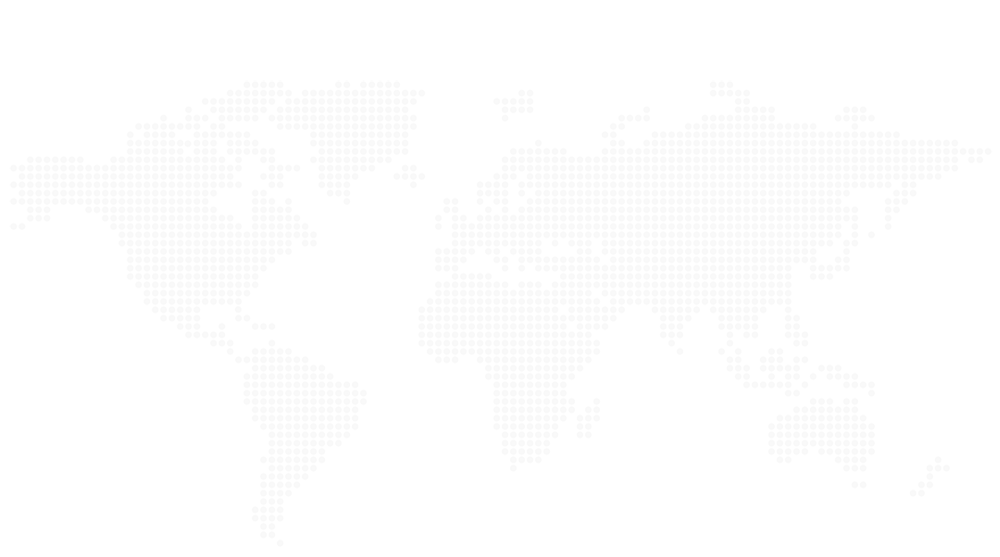
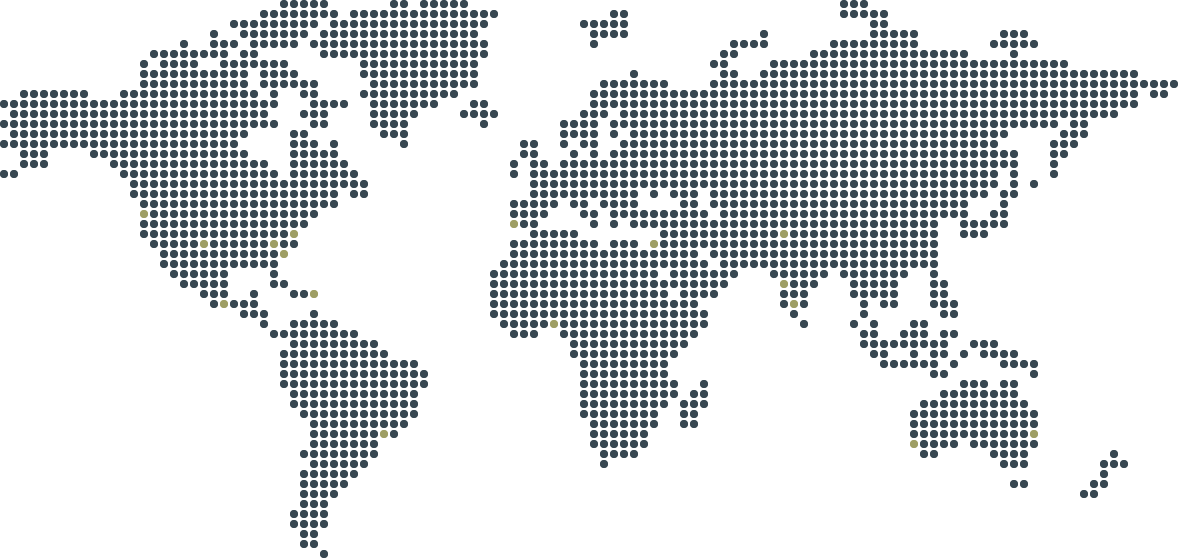
Adds the dotmap svg and png to the showcase section on the homepage.

diff --git a/static/js/dotmap.js b/static/js/dotmap.js
@@ -1,0 +1,128 @@
+var maptrix = [
+	[0,0,0,0,0,0,0,0,0,0,0,0,0,0,0,0,0,0,0,0,0,0,0,0,0,0,0,0,1,1,1,1,1,0,0,0,0,0,0,1,1,0,1,1,1,1,1,0,0,0,0,0,0,0,0,0,0,0,0,0,0,0,0,0,0,0,0,0,0,0,0,0,0,0,0,0,0,0,0,0,0,0,0,0,1,1,1],
+	[0,0,0,0,0,0,0,0,0,0,0,0,0,0,0,0,0,0,0,0,0,0,0,0,0,0,1,1,1,1,1,1,1,1,0,1,1,1,1,1,1,1,1,1,1,1,1,1,1,1,0,0,0,0,0,0,0,0,0,0,0,1,1,0,0,0,0,0,0,0,0,0,0,0,0,0,0,0,0,0,0,0,0,0,1,1,1,1,1],
+	[0,0,0,0,0,0,0,0,0,0,0,0,0,0,0,0,0,0,0,0,0,0,0,1,1,1,1,1,1,1,1,1,0,1,1,1,1,1,1,1,1,1,1,1,1,1,1,1,1,0,0,0,0,0,0,0,0,0,1,1,1,1,1,0,0,0,0,0,0,0,0,0,0,0,0,0,0,0,0,0,0,0,0,0,0,0,0,1,1],
+	[0,0,0,0,0,0,0,0,0,0,0,0,0,0,0,0,0,0,0,0,0,1,0,0,1,1,1,1,1,1,1,0,1,1,1,1,1,1,1,1,1,1,1,1,1,1,1,1,0,0,0,0,0,0,0,0,0,0,0,1,1,1,1,0,0,0,0,0,0,0,0,0,0,0,0,0,1,0,0,0,0,0,0,0,0,0,0,1,1,1,1,1,0,0,0,0,0,0,0,0,1,1,1,],
+	[0,0,0,0,0,0,0,0,0,0,0,0,0,0,0,0,0,0,1,0,0,1,1,1,0,1,1,1,1,1,0,1,1,1,1,1,1,1,1,1,1,1,1,1,1,1,1,1,1,0,0,0,0,0,0,0,0,0,0,1,0,0,0,0,0,0,0,0,0,0,0,0,0,1,1,1,1,0,0,0,0,0,0,1,1,1,1,1,1,1,1,1,0,0,0,0,0,0,0,1,1,1,1,1],
+	[0,0,0,0,0,0,0,0,0,0,0,0,0,0,0,1,1,1,1,1,1,1,1,0,1,1,0,0,0,0,0,0,1,1,1,1,1,1,1,1,1,1,1,1,1,1,1,1,1,0,0,0,0,0,0,0,0,0,0,0,0,0,0,0,0,0,0,0,0,0,0,0,1,1,0,0,0,0,0,0,0,1,1,1,1,1,1,1,1,1,1,1,1,1,1,1,1,0,0,0,0,1],
+	[0,0,0,0,0,0,0,0,0,0,0,0,0,0,1,0,1,1,1,1,0,0,1,1,1,1,1,1,1,0,0,0,0,0,0,0,1,1,1,1,1,1,1,1,1,1,1,1,0,0,0,0,0,0,0,0,0,0,0,0,0,0,0,0,0,0,0,0,0,0,0,1,1,0,0,0,0,1,1,1,1,1,1,1,1,1,1,1,1,1,1,1,1,1,1,1,1,1,1,1,1,1,1,1,1,1,1],
+	[0,0,0,0,0,0,0,0,0,0,0,0,0,0,1,1,1,1,1,1,1,1,1,1,1,0,1,1,1,1,0,0,0,0,0,0,1,1,1,1,1,1,1,1,1,1,1,1,0,0,0,0,0,0,0,0,0,0,0,0,0,0,0,1,0,0,0,0,0,0,0,0,1,1,0,0,1,1,1,1,1,1,1,1,1,1,1,1,1,1,1,1,1,1,1,1,1,1,1,1,1,1,1,1,1,1,1,1,1,1,1,1,1,1],
+	[0,0,0,0,0,0,0,0,0,0,0,0,0,0,1,1,1,1,1,1,1,1,1,1,1,0,1,1,1,1,1,1,0,0,0,0,0,1,1,1,1,1,1,1,1,1,1,1,0,0,0,0,0,0,0,0,0,0,0,0,1,1,1,1,1,1,1,0,0,0,0,1,1,1,1,1,1,1,1,1,1,1,1,1,1,1,1,1,1,1,1,1,1,1,1,1,1,1,1,1,1,1,1,1,1,1,1,1,1,1,1,1,1,1,1,1,1,1],
+	[0,0,1,1,1,1,1,1,1,0,0,0,1,1,1,1,1,1,1,1,1,1,1,1,1,1,0,1,0,0,1,1,0,0,0,0,1,1,1,1,1,1,1,1,1,1,0,0,0,0,0,0,0,0,0,0,0,0,0,1,1,1,1,1,1,1,1,1,1,1,1,1,1,1,1,1,1,1,2,1,1,1,1,1,1,1,1,1,1,1,1,1,1,1,1,1,1,1,1,1,1,1,1,1,1,1,1,1,1,1,1,1,1,1,0,1,1],
+	[1,1,1,1,1,1,1,1,1,1,1,1,1,1,1,1,1,1,1,1,1,1,1,1,1,1,1,1,0,0,0,1,1,1,1,0,0,1,1,1,1,1,1,1,0,0,0,1,1,0,0,0,0,0,0,0,0,0,0,1,1,1,1,1,1,1,1,1,1,1,1,1,1,1,1,1,1,1,1,1,1,1,1,1,1,1,1,1,1,1,1,1,1,1,1,1,1,1,1,1,1,1,1,1,1,1,1,1,1,1,1,1,1,1],
+	[0,1,1,1,1,1,1,1,1,1,1,1,1,1,1,1,1,1,1,1,1,1,1,1,1,1,1,0,0,0,1,1,1,0,0,0,0,1,1,1,1,1,0,0,0,0,1,1,1,1,0,0,0,0,0,0,0,0,1,1,1,0,1,1,1,1,1,1,1,1,1,1,1,1,1,1,1,1,1,1,1,1,1,1,1,1,1,1,1,1,1,1,1,1,1,1,1,1,1,1,1,1,1,1,1,1,1,1,1,1,1,1],
+	[1,1,1,1,1,1,1,1,1,1,1,1,1,1,1,1,1,1,1,1,1,1,1,1,1,1,1,1,0,0,0,1,1,0,0,0,0,1,1,1,1,0,0,0,0,0,0,0,1,0,0,0,0,0,0,0,1,1,1,2,0,1,1,1,1,1,1,1,1,1,1,1,1,1,1,1,1,1,1,1,1,1,1,1,1,1,1,1,1,1,1,1,1,1,1,1,1,1,1,1,1,1,1,1,1,1,0,1,1],
+	[0,1,1,1,1,1,1,1,1,1,1,1,1,1,1,1,1,1,1,1,1,1,1,1,1,0,0,0,0,1,1,0,0,0,0,0,0,0,1,1,1,0,0,0,0,0,0,0,0,0,0,0,0,0,0,0,1,1,1,1,0,1,0,1,1,1,1,1,1,2,1,1,1,1,1,1,1,1,1,1,1,1,1,1,1,1,1,1,1,1,1,1,1,1,1,1,1,1,1,1,1,0,0,0,0,0,1,1,1],
+	[1,1,1,1,1,1,1,1,1,1,1,1,1,1,1,1,1,1,1,1,1,1,1,1,0,0,0,0,0,1,1,1,0,1,0,0,0,0,0,0,1,0,0,0,0,0,0,0,0,0,0,0,1,2,0,0,1,0,1,1,0,0,1,1,1,1,1,1,1,1,1,1,1,1,1,1,1,1,1,1,1,1,1,1,1,1,1,1,1,1,1,1,1,1,1,1,1,1,1,1,0,0,0,0,0,1,1,1],
+	[0,0,1,1,1,0,0,0,0,1,1,1,1,1,1,1,1,1,1,1,1,1,1,1,1,0,0,0,0,1,1,1,1,1,0,0,0,0,0,0,0,0,0,0,0,0,0,0,0,0,0,0,1,2,0,0,0,1,0,1,0,1,1,1,1,1,1,1,1,1,1,1,1,1,1,1,1,1,1,1,1,1,1,1,1,1,1,1,1,1,1,1,1,1,1,1,1,1,1,1,1,1,0,0,0,1,1],
+	[0,0,1,1,1,0,0,0,0,0,0,1,1,1,1,1,1,1,1,1,1,1,1,1,1,1,1,0,0,1,1,1,1,1,1,0,0,0,0,0,0,0,0,0,0,0,0,0,0,0,0,2,0,1,2,0,2,2,1,1,1,1,1,1,1,1,1,1,1,1,1,1,1,1,1,1,1,1,1,1,1,1,1,1,1,1,1,1,1,1,1,1,1,1,1,1,1,1,1,1,1,1,0,0,0,1],
+	[1,1,0,0,0,0,0,0,0,0,0,0,1,1,1,1,1,1,1,1,1,1,1,1,1,1,1,1,0,1,1,1,1,1,1,1,0,0,0,0,0,0,0,0,0,0,0,0,0,0,0,1,0,2,2,1,2,1,1,1,1,1,1,1,1,1,1,1,1,1,1,1,1,1,1,1,1,1,1,1,1,1,1,1,1,1,1,1,1,1,1,1,1,1,1,1,1,1,1,1,0,1,0,0,0,1],
+	[0,0,0,0,0,0,0,0,0,0,0,0,0,1,1,1,1,1,1,1,1,1,1,1,1,1,1,1,1,1,1,1,1,1,1,1,1,0,0,0,0,0,0,0,0,0,0,0,0,0,0,0,0,1,1,1,1,1,1,1,1,1,1,1,1,1,1,1,1,1,1,1,1,1,1,1,1,1,1,1,1,1,1,1,1,1,1,1,1,1,1,1,1,1,1,1,1,1,1,1,0,2,0,1],
+	[0,0,0,0,0,0,0,0,0,0,0,0,0,1,1,1,1,1,2,1,1,1,1,1,1,1,1,1,1,1,1,1,1,1,0,1,1,0,0,0,0,0,0,0,0,0,0,0,0,0,0,0,0,1,1,1,1,1,1,1,1,1,1,1,0,1,0,1,1,1,0,1,1,1,1,1,1,1,1,1,1,1,1,1,1,1,1,1,1,1,1,1,1,1,1,1,1,1,1,0,1,1],
+	[0,0,0,0,0,0,0,0,0,0,0,0,0,0,2,1,1,1,1,1,1,1,1,1,1,1,1,2,1,1,1,1,2,1,0,0,0,0,0,0,0,0,0,0,0,0,0,0,0,0,0,2,1,1,1,1,0,1,2,0,1,1,1,1,0,0,0,0,2,1,0,1,1,1,1,1,1,1,2,1,1,1,1,1,1,1,1,1,1,1,1,1,1,1,1,1,1,0,0,0,2],
+	[0,0,0,0,0,0,0,0,0,0,0,0,0,0,2,1,1,1,1,1,1,1,1,1,2,1,1,1,1,1,1,2,0,0,0,0,0,0,0,0,0,0,0,0,0,0,0,0,0,0,0,2,1,2,1,0,0,0,1,2,0,1,1,1,1,1,1,1,1,1,1,0,1,1,1,1,1,1,1,1,1,1,1,1,1,1,1,1,1,1,1,1,1,1,1,1,2,0,0,1,1],
+	[0,0,0,0,0,0,0,0,0,0,0,0,0,0,2,1,1,1,1,1,1,1,1,1,1,2,1,1,2,1,2,0,0,0,0,0,0,0,0,0,0,0,0,0,0,0,0,0,0,0,0,2,1,1,0,0,0,0,0,1,0,1,0,1,1,1,1,1,1,1,1,1,1,1,1,1,1,1,1,1,1,1,1,1,1,1,1,1,1,1,1,1,1,1,0,0,1,1,1,2,2],
+	[0,0,0,0,0,0,0,0,0,0,0,0,0,0,1,1,1,1,1,1,1,1,1,1,1,1,2,1,2,2,0,0,0,0,0,0,0,0,0,0,0,0,0,0,0,0,0,0,0,0,0,0,0,1,1,1,1,1,0,0,0,0,0,0,0,0,2,1,1,1,1,1,1,1,1,1,1,1,2,1,1,1,1,1,1,1,1,1,1,1,1,1,1,2,0,0,2,1,1],
+	[0,0,0,0,0,0,0,0,0,0,0,0,0,0,0,2,1,1,1,1,2,1,1,1,1,1,1,2,1,2,0,0,0,0,0,0,0,0,0,0,0,0,0,0,0,0,0,0,0,0,0,1,1,1,1,1,1,1,1,1,0,1,1,1,0,2,1,1,1,1,1,1,1,1,1,1,1,1,2,2,1,1,1,1,1,1,1,1,1,1,1,1,2,1],
+	[0,0,0,0,0,0,0,0,0,0,0,0,0,0,0,0,2,1,1,1,1,1,1,1,1,1,2,1,2,0,0,0,0,0,0,0,0,0,0,0,0,0,0,0,0,0,0,0,0,0,0,1,1,1,1,1,1,1,1,1,1,1,1,1,2,1,1,1,1,2,0,1,1,1,1,1,1,1,1,1,2,1,1,1,1,1,1,1,1,1,1,1,1,1],
+	[0,0,0,0,0,0,0,0,0,0,0,0,0,0,0,0,2,2,1,1,1,1,1,1,2,1,1,2,0,0,0,0,0,0,0,0,0,0,0,0,0,0,0,0,0,0,0,0,0,0,1,1,1,1,1,1,1,1,1,1,1,1,1,1,2,1,1,1,1,1,1,0,1,1,1,1,1,1,1,1,1,1,1,1,1,1,1,1,1,1,1,2,1,1],
+	[0,0,0,0,0,0,0,0,0,0,0,0,0,0,0,0,0,1,1,1,1,1,1,0,0,0,0,2,0,0,0,0,0,0,0,0,0,0,0,0,0,0,0,0,0,0,0,0,0,1,1,1,1,1,1,1,1,1,1,1,1,1,1,1,1,1,0,1,1,1,1,1,2,1,0,0,0,1,1,1,1,1,2,0,1,1,1,1,1,1,1,0,0,1],
+	[0,0,0,0,0,0,0,0,0,0,0,0,0,0,0,0,0,0,1,1,1,1,1,0,0,0,0,1,1,0,0,0,0,0,0,0,0,0,0,0,0,0,0,0,0,0,0,0,0,1,1,1,1,1,1,1,1,1,1,1,1,1,1,1,1,1,1,1,2,1,1,1,1,0,0,0,0,0,2,1,2,1,0,0,0,1,1,1,1,1,0,0,0,1,1],
+	[0,0,0,0,0,0,0,0,0,0,0,0,0,0,0,0,0,0,0,0,1,2,1,0,0,1,0,0,0,1,1,2,0,0,0,0,0,0,0,0,0,0,0,0,0,0,0,0,0,1,1,1,1,1,1,1,1,1,1,1,1,1,1,1,1,1,1,0,1,1,1,1,0,0,0,0,0,0,1,1,1,0,0,0,0,1,2,1,1,1,0,0,0,1,1],
+	[0,0,0,0,0,0,0,0,0,0,0,0,0,0,0,0,0,0,0,0,0,1,2,1,1,1,0,0,0,0,0,0,0,0,0,0,0,0,0,0,0,0,0,0,0,0,0,0,0,1,1,1,1,1,1,1,1,1,1,1,1,1,1,1,1,1,1,1,1,1,0,0,0,0,0,0,0,0,1,2,2,0,0,0,0,0,1,0,1,1,0,0,0,1,2,1],
+	[0,0,0,0,0,0,0,0,0,0,0,0,0,0,0,0,0,0,0,0,0,0,0,0,1,1,1,0,0,0,0,1,0,0,0,0,0,0,0,0,0,0,0,0,0,0,0,0,0,1,1,1,1,1,1,1,1,1,1,1,1,1,1,1,1,1,1,1,1,1,1,0,0,0,0,0,0,0,0,1,0,0,0,0,0,0,1,0,0,0,0,0,0,0,1,1],
+	[0,0,0,0,0,0,0,0,0,0,0,0,0,0,0,0,0,0,0,0,0,0,0,0,0,0,1,0,0,1,1,1,1,2,0,0,0,0,0,0,0,0,0,0,0,0,0,0,0,0,1,1,1,1,1,2,1,1,1,1,1,1,1,1,1,1,1,1,1,1,1,0,0,0,0,0,0,0,0,0,1,0,0,0,0,1,0,1,0,0,0,1,1],
+	[0,0,0,0,0,0,0,0,0,0,0,0,0,0,0,0,0,0,0,0,0,0,0,0,0,0,0,1,1,1,1,1,1,1,1,1,0,0,0,0,0,0,0,0,0,0,0,0,0,0,0,1,1,1,0,0,1,1,1,1,1,1,1,1,1,1,1,1,1,1,0,0,0,0,0,0,0,0,0,0,0,0,0,0,0,0,1,2,0,0,1,1,1,0,1,1],
+	[0,0,0,0,0,0,0,0,0,0,0,0,0,0,0,0,0,0,0,0,0,0,0,0,0,0,0,0,0,1,1,1,1,1,1,1,1,1,0,0,0,0,0,0,0,0,0,0,0,0,0,0,0,0,0,0,0,1,1,1,1,1,1,1,1,1,1,1,1,0,0,0,0,0,0,0,0,0,0,0,0,0,0,0,0,0,1,1,1,1,1,1,1,1,1,0,0,1,1,1],
+	[0,0,0,0,0,0,0,0,0,0,0,0,0,0,0,0,0,0,0,0,0,0,0,0,0,0,0,0,1,1,1,1,1,1,1,1,1,1,1,0,0,0,0,0,0,0,0,0,0,0,0,0,0,0,0,0,0,1,1,1,1,1,1,1,1,1,1,1,0,0,0,0,0,0,0,0,0,0,0,0,0,0,0,0,0,0,0,1,1,0,0,1,0,1,1,0,1,0,1,1,1,1],
+	[0,0,0,0,0,0,0,0,0,0,0,0,0,0,0,0,0,0,0,0,0,0,0,0,0,0,0,0,1,1,1,1,1,1,1,1,1,1,1,1,1,1,0,0,0,0,0,0,0,0,0,0,0,0,0,0,0,0,1,1,1,1,1,1,1,1,1,0,0,0,0,0,0,0,0,0,0,0,0,0,0,0,0,0,0,0,0,0,1,2,2,1,1,1,0,1,0,0,0,0,1,1,1,1],
+	[0,0,0,0,0,0,0,0,0,0,0,0,0,0,0,0,0,0,0,0,0,0,0,0,0,0,0,0,1,1,1,1,1,1,1,1,1,1,1,1,1,1,1,0,0,0,0,0,0,0,0,0,0,0,0,0,0,0,1,1,1,1,1,1,1,1,1,0,0,0,0,0,0,0,0,0,0,0,0,0,0,0,0,0,0,0,0,0,0,0,0,0,0,1,1,0,0,0,0,0,0,0,0,1],
+	[0,0,0,0,0,0,0,0,0,0,0,0,0,0,0,0,0,0,0,0,0,0,0,0,0,0,0,0,1,1,1,1,1,1,1,1,1,1,1,1,1,1,2,0,0,0,0,0,0,0,0,0,0,0,0,0,0,0,1,1,1,1,1,1,1,1,1,1,0,0,1,0,0,0,0,0,0,0,0,0,0,0,0,0,0,0,0,0,0,0,0,0,0,0,0,0,1,1,1,0,1,1],
+	[0,0,0,0,0,0,0,0,0,0,0,0,0,0,0,0,0,0,0,0,0,0,0,0,0,0,0,0,0,1,1,1,1,1,1,1,1,1,1,1,1,1,0,0,0,0,0,0,0,0,0,0,0,0,0,0,0,0,1,1,1,1,1,1,1,1,1,1,0,1,1,0,0,0,0,0,0,0,0,0,0,0,0,0,0,0,0,0,0,0,0,0,0,0,1,1,1,1,1,1,1,1],
+	[0,0,0,0,0,0,0,0,0,0,0,0,0,0,0,0,0,0,0,0,0,0,0,0,0,0,0,0,0,1,1,1,1,1,1,1,1,1,1,1,1,1,0,0,0,0,0,0,0,0,0,0,0,0,0,0,0,0,1,1,1,1,1,1,1,1,1,0,1,1,1,0,0,0,0,0,0,0,0,0,0,0,0,0,0,0,0,0,0,0,0,0,1,1,1,1,1,1,1,1,1,1,1],
+	[0,0,0,0,0,0,0,0,0,0,0,0,0,0,0,0,0,0,0,0,0,0,0,0,0,0,0,0,0,0,1,1,1,1,1,1,1,1,1,1,1,1,0,0,0,0,0,0,0,0,0,0,0,0,0,0,0,0,1,1,1,1,1,1,1,1,0,0,1,1,0,0,0,0,0,0,0,0,0,0,0,0,0,0,0,0,0,0,0,0,0,1,1,1,1,2,1,1,1,1,1,1,1,1],
+	[0,0,0,0,0,0,0,0,0,0,0,0,0,0,0,0,0,0,0,0,0,0,0,0,0,0,0,0,0,0,0,1,1,1,1,1,1,1,1,1,1,0,0,0,0,0,0,0,0,0,0,0,0,0,0,0,0,0,0,1,1,1,1,2,1,1,0,0,1,1,0,0,0,0,0,0,0,0,0,0,0,0,0,0,0,0,0,0,0,0,0,1,1,1,1,1,1,1,1,1,1,1,1,1],
+	[0,0,0,0,0,0,0,0,0,0,0,0,0,0,0,0,0,0,0,0,0,0,0,0,0,0,0,0,0,0,0,1,1,1,1,1,1,1,2,1,0,0,0,0,0,0,0,0,0,0,0,0,0,0,0,0,0,0,0,1,1,1,1,1,1,0,0,0,0,0,0,0,0,0,0,0,0,0,0,0,0,0,0,0,0,0,0,0,0,0,0,1,1,1,1,1,1,1,1,1,1,1,1,2],
+	[0,0,0,0,0,0,0,0,0,0,0,0,0,0,0,0,0,0,0,0,0,0,0,0,0,0,0,0,0,0,0,1,1,1,1,1,1,1,0,0,0,0,0,0,0,0,0,0,0,0,0,0,0,0,0,0,0,0,0,1,1,1,1,1,1,0,0,0,0,0,0,0,0,0,0,0,0,0,0,0,0,0,0,0,0,0,0,0,0,0,0,2,1,1,1,1,0,1,1,1,1,1,1,1],
+	[0,0,0,0,0,0,0,0,0,0,0,0,0,0,0,0,0,0,0,0,0,0,0,0,0,0,0,0,0,0,1,1,1,1,1,1,1,1,0,0,0,0,0,0,0,0,0,0,0,0,0,0,0,0,0,0,0,0,0,0,1,1,1,1,0,0,0,0,0,0,0,0,0,0,0,0,0,0,0,0,0,0,0,0,0,0,0,0,0,0,0,0,1,1,0,0,0,0,0,1,1,1,2,0,0,0,0,0,0,0,0,1],
+	[0,0,0,0,0,0,0,0,0,0,0,0,0,0,0,0,0,0,0,0,0,0,0,0,0,0,0,0,0,0,0,1,1,1,1,1,1,0,0,0,0,0,0,0,0,0,0,0,0,0,0,0,0,0,0,0,0,0,0,0,1,0,0,0,0,0,0,0,0,0,0,0,0,0,0,0,0,0,0,0,0,0,0,0,0,0,0,0,0,0,0,0,0,0,0,0,0,0,0,0,1,1,1,0,0,0,0,0,0,0,1,1,1],
+	[0,0,0,0,0,0,0,0,0,0,0,0,0,0,0,0,0,0,0,0,0,0,0,0,0,0,0,0,0,0,1,1,1,1,1,1,0,0,0,0,0,0,0,0,0,0,0,0,0,0,0,0,0,0,0,0,0,0,0,0,0,0,0,0,0,0,0,0,0,0,0,0,0,0,0,0,0,0,0,0,0,0,0,0,0,0,0,0,0,0,0,0,0,0,0,0,0,0,0,0,0,0,0,0,0,0,0,0,0,0,1],
+	[0,0,0,0,0,0,0,0,0,0,0,0,0,0,0,0,0,0,0,0,0,0,0,0,0,0,0,0,0,0,1,1,1,1,1,0,0,0,0,0,0,0,0,0,0,0,0,0,0,0,0,0,0,0,0,0,0,0,0,0,0,0,0,0,0,0,0,0,0,0,0,0,0,0,0,0,0,0,0,0,0,0,0,0,0,0,0,0,0,0,0,0,0,0,0,0,0,0,0,0,0,1,1,0,0,0,0,0,0,1,1],
+	[0,0,0,0,0,0,0,0,0,0,0,0,0,0,0,0,0,0,0,0,0,0,0,0,0,0,0,0,0,0,1,1,1,1,0,0,0,0,0,0,0,0,0,0,0,0,0,0,0,0,0,0,0,0,0,0,0,0,0,0,0,0,0,0,0,0,0,0,0,0,0,0,0,0,0,0,0,0,0,0,0,0,0,0,0,0,0,0,0,0,0,0,0,0,0,0,0,0,0,0,0,0,0,0,0,0,0,0,1,1],
+	[0,0,0,0,0,0,0,0,0,0,0,0,0,0,0,0,0,0,0,0,0,0,0,0,0,0,0,0,0,0,1,1,1],
+	[0,0,0,0,0,0,0,0,0,0,0,0,0,0,0,0,0,0,0,0,0,0,0,0,0,0,0,0,0,1,1,1,1],
+	[0,0,0,0,0,0,0,0,0,0,0,0,0,0,0,0,0,0,0,0,0,0,0,0,0,0,0,0,0,1,1,1,1],
+	[0,0,0,0,0,0,0,0,0,0,0,0,0,0,0,0,0,0,0,0,0,0,0,0,0,0,0,0,0,0,1,1],
+	[0,0,0,0,0,0,0,0,0,0,0,0,0,0,0,0,0,0,0,0,0,0,0,0,0,0,0,0,0,0,1,1],
+	[0,0,0,0,0,0,0,0,0,0,0,0,0,0,0,0,0,0,0,0,0,0,0,0,0,0,0,0,0,0,0,0,1]
+];
+
+var map = {
+	config: {
+		colors: ["#3c4a55", "#6b8452"], //[dot when off, lit up dot]
+		dotSize: 4, //dot radius
+		margin: 1, //space between dots
+		freq: 500, //spee at which dots turn on and off
+		matrix: maptrix //bring maprtix to scope
+	},
+	finalMap: [],
+	cities: [],
+	init: function(){
+
+		var mapEl = document.getElementById("mapWrap");
+
+		if(this.supportsSvg()){
+			var i = 0, c = 0; //iterators
+
+			for(y = 0; y < map.config.matrix.length; y++) {
+				for(x = 0; x < map.config.matrix[y].length; x++) {
+					var spot = map.config.matrix[y][x];
+					var cx = x*(map.config.dotSize*2+map.config.margin*2)+map.config.dotSize;
+					var cy = y*(map.config.dotSize*2+map.config.margin*2)+map.config.dotSize;
+					
+					if(spot!==0){
+						var color = this.config.colors[0];
+					
+						if(spot==2){ 
+							//color = this.config.colors[Math.floor(Math.random()*2)]; //Flip a coin to see if a city is lit up to start with
+							map.cities[c] = i;
+							c++;
+						}
+						
+						map.finalMap[i] = '\<circle fill="'+color+'" id="dot'+i+'" cx="'+cx+'" cy="'+cy+'" r="'+map.config.dotSize+'"/>';
+						i++;
+					}
+				}
+			}
+			
+			//Join our circles and put them in the #mapWrap with the proper svg wrapper
+			mapEl.innerHTML = '\<svg version="1.1" id="map-svg" xmlns="http://www.w3.org/2000/svg" xmlns:xlink="http://www.w3.org/1999/xlink" xml:space="preserve"\>\<g\>'+map.finalMap.join("")+'\</g\>\</svg\>';
+			mapEl.className = mapEl.className + " svg-map";
+
+			//Call the citylight function at the frequency in the config
+			setInterval(function(){map.citylight()}, this.config.freq);
+		} else {
+			mapEl.className = mapEl.className + " no-svg-map";
+		}
+	},
+	citylight: function(){
+		var rdot = Math.floor(Math.random() * this.cities.length); //Pick a random city
+		var el = document.getElementById("dot"+this.cities[rdot]); //Get the svg element of that city by its id
+		var fill = el.getAttribute("fill"); //Get the current fill color of that city
+	
+		if(fill==this.config.colors[1]){
+			//if its lit up, make it dark
+			el.setAttribute("fill",this.config.colors[0]);
+		}
+		if(fill==this.config.colors[0]){
+			//if its dark, light it up
+			el.setAttribute("fill",this.config.colors[1]);
+		}
+	},
+	supportsSvg: function(){
+		//http://voormedia.com/blog/2012/10/displaying-and-detecting-support-for-svg-images
+	    return document.implementation.hasFeature("http://www.w3.org/TR/SVG11/feature#Image", "1.1");
+	}
+}
+
+map.init();

diff --git a/templates/index.html b/templates/index.html
@@ -8,12 +8,15 @@
 {% block content %}
 
 {# Showcase section #}
-<div id="wrap" class="container-fluid" style="position:relative;">
-  <div class="container text-center">
-      
-      <h1 class="tagline">{% trans "Turn Your Phone Into a Bitcoin ATM" %}</h1>
+<div id="wrap" class="container-fluid bg-dark-blue" style="position:relative;">
 
-      <p style="font-size:1.2em;">Tagline tag line Tagline tag line Tagline tag line Tagline tag line Tagline tag line</p>
+  <div id="mapWrap"></div>
+
+  <div class="container text-center">
+    <div class="foreground">
+
+      <h1 class="tagline">{% trans "Turn Your Phone Into a Bitcoin ATM" %}</h1>
+      <h4>Tagline tag line Tagline tag line Tagline tag line Tagline tag line Tagline tag line</h4>
       
       {% include "_play_video_modal.html" %}
   
@@ -21,10 +24,12 @@
         <span class="video-play-btn" onclick="$('#play-video-modal').modal();">{% trans "Watch Video" %}</span>
       </p>
     
-    <p class="sign-up-box">
-      <a href="{% url 'register_merchant' %}" class="btn btn-primary btn-lg">{% trans "Sign Up For Free" %}</a>
-    </p>
+      <p class="sign-up-box">
+        <a href="{% url 'register_merchant' %}" class="btn btn-primary btn-lg">{% trans "Sign Up For Free" %}</a>
+      </p>
+    </div>
   </div>
+
 </div>
 
 {# What is CoinSafe section #}
@@ -114,7 +119,6 @@
 
   </div>
 </div>
-
 
 {% endblock content %}
 {% block static_page_footer %}
@@ -212,4 +216,6 @@
     });
 
   </script>
+
+  <script src="{% static "js/dotmap.js" %}"></script>
 {% endblock %}

diff --git a/static/css/custom.css b/static/css/custom.css
@@ -117,14 +117,16 @@ hr {
 /* ===== Showcase ===== */
 
 #wrap {
-    color:#fff;
     position:relative;
-    background:#2D3B48 url('../img/dotmap.png') center no-repeat;
-    margin-top:20px;
+    margin-top:50px;
 }
-#wrap h1 {
+#wrap .foreground {
+    z-index:1;
+    position:relative;
+    padding:60px 0;
+}
+#wrap .tagline {
     font-size: 4em;
-    margin-top:130px;
 }
 .showcase {
     position: relative;
@@ -205,6 +207,25 @@ hr {
     -moz-animation-duration: 1.9s;
 }
 
+/* SVG map on homepage */
+#mapWrap {
+    margin:0 auto;
+    width:1178px;
+    height:558px;
+    max-width:1200px;
+    position:absolute;
+    z-index:0;
+    left:50%;
+    margin: 0 0 0 -589px;
+}
+#mapWrap #map-svg {
+    width:100%;
+    height:100%;
+}
+#mapWrap.no-svg-map {
+    background:transparent url('../img/dotmap.png') center no-repeat;
+}
+
 /* Video play button */
 .video-play-btn {
     cursor:pointer;
@@ -237,6 +258,8 @@ hr {
 /* What is coinsafe section */
 .what-is-coinsafe {
     font-size:1.2em;
+    position:relative;
+    z-index:1;
 }
 .what-is-coinsafe .feature-list li {
     margin:1em 0;
